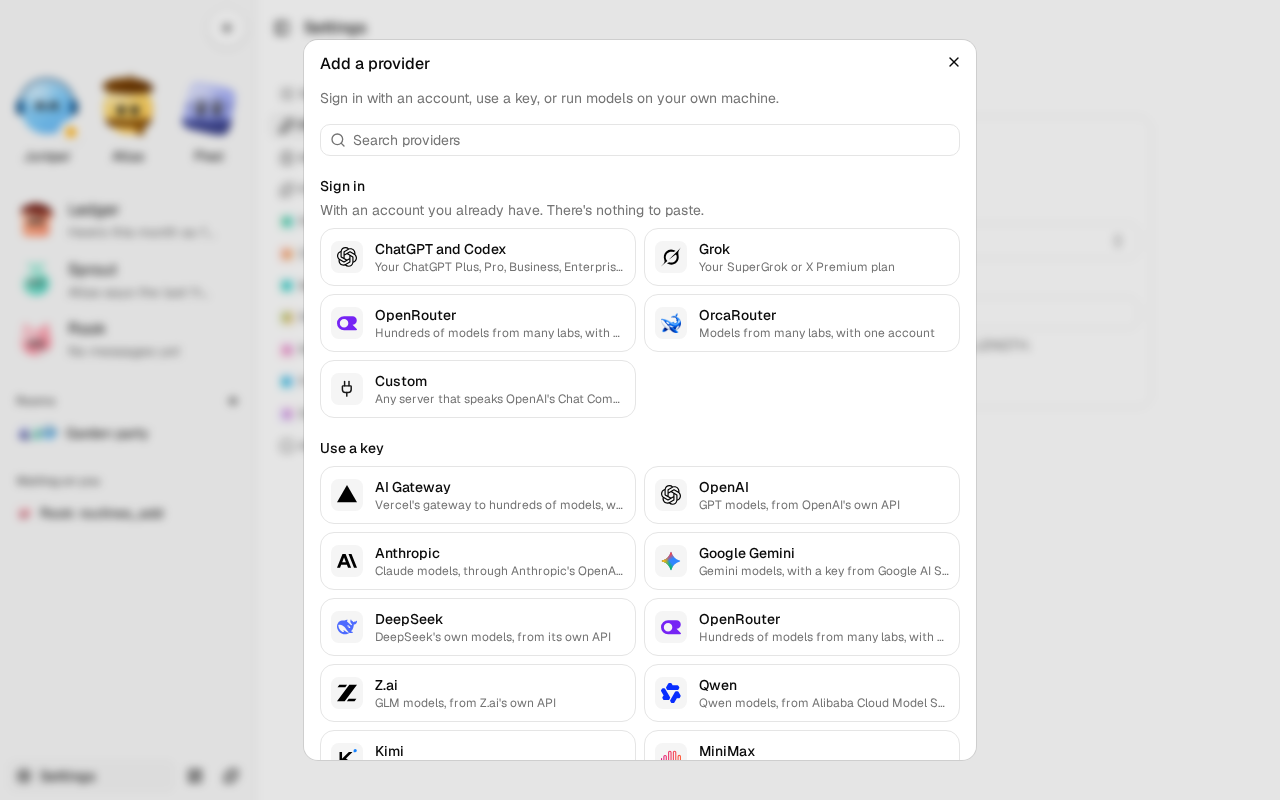
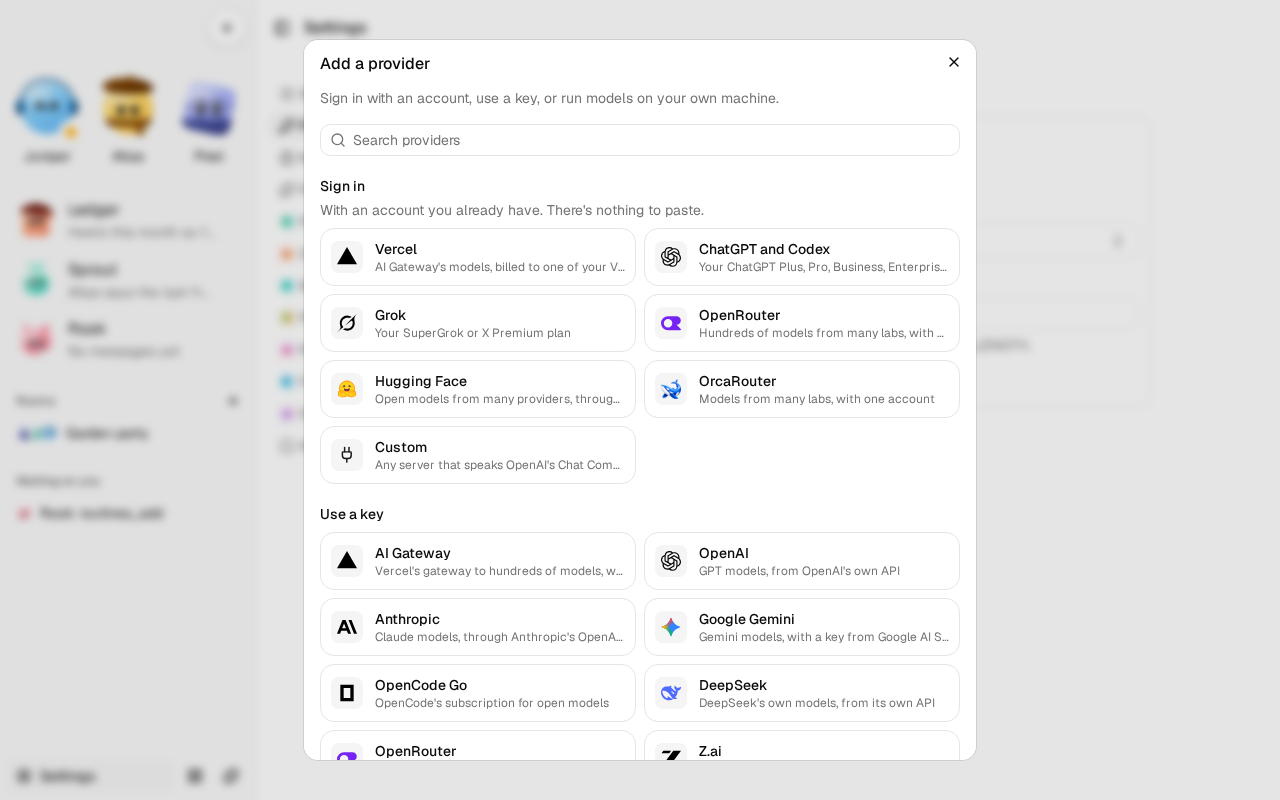
Add provider lists OpenCode Go after Gemini, at the top of the keys
At the owner's word. The provider shots show the new order, and the Vercel and
Hugging Face sign-ins the catalog now ships.

diff --git a/docs/_completed/phases/providers-v2.md b/docs/_completed/phases/providers-v2.md
@@ -663,7 +663,7 @@ What the build found or changed, against the plan:
 
 1. **Who registers fxbot's Vercel and Hugging Face apps?** Both are public apps with no secret, so their client ids ship in fxbot. Each needs an account to own it, a name, and an icon. The default is the project's own accounts, named "fxbot". *Both registered by the owner on 2026-11-09, under the project's own team, and their client ids ship in the catalog (see **Built**).**Built**).*
 2. **Ask Nous for a client id for fxbot?** Its device code would give Nous Portal a sign-in button. The default is to ask, and use a key until then. OrcaRouter's partner `app_id`, for its Verified badge, is the same kind of ask. *Built: a key, for now. Asking is the owner's.*
-3. **The featured order.** The default is by demand: AI Gateway, OpenAI, Anthropic, Gemini, DeepSeek, OpenRouter, Z.ai, Qwen, Kimi, MiniMax, xAI, Mistral, Groq, Together, Fireworks, DeepInfra, Cerebras, NVIDIA, Nous Portal. *Built as the default, with Hugging Face before Nous Portal, and OrcaRouter and OpenCode after it.*
+3. **The featured order.** The default is by demand: AI Gateway, OpenAI, Anthropic, Gemini, DeepSeek, OpenRouter, Z.ai, Qwen, Kimi, MiniMax, xAI, Mistral, Groq, Together, Fireworks, DeepInfra, Cerebras, NVIDIA, Nous Portal. *Built as the default, with OpenCode Go after Gemini, at the owner's word, Hugging Face before Nous Portal, and OrcaRouter and OpenCode Zen after it.*
 4. **Untested providers in search: shown with a note, or hidden?** The default is shown, with "Not yet tried with fxbot". *Built as the default.*
 5. **OpenRouter's attribution headers, on or off?** On would send `HTTP-Referer: https://fxbot.sh` and `X-OpenRouter-Title: fxbot`, and list fxbot among OpenRouter's apps. That says nothing about the owner that the key doesn't already. The default is on. *Built as the default.*
 6. **First-run setup: a way to skip the provider?** Hermes has "I'll choose a provider later". The default is no, since a first bot can't answer without one, and today's whole-setup skip stays. *Built as the default.*
